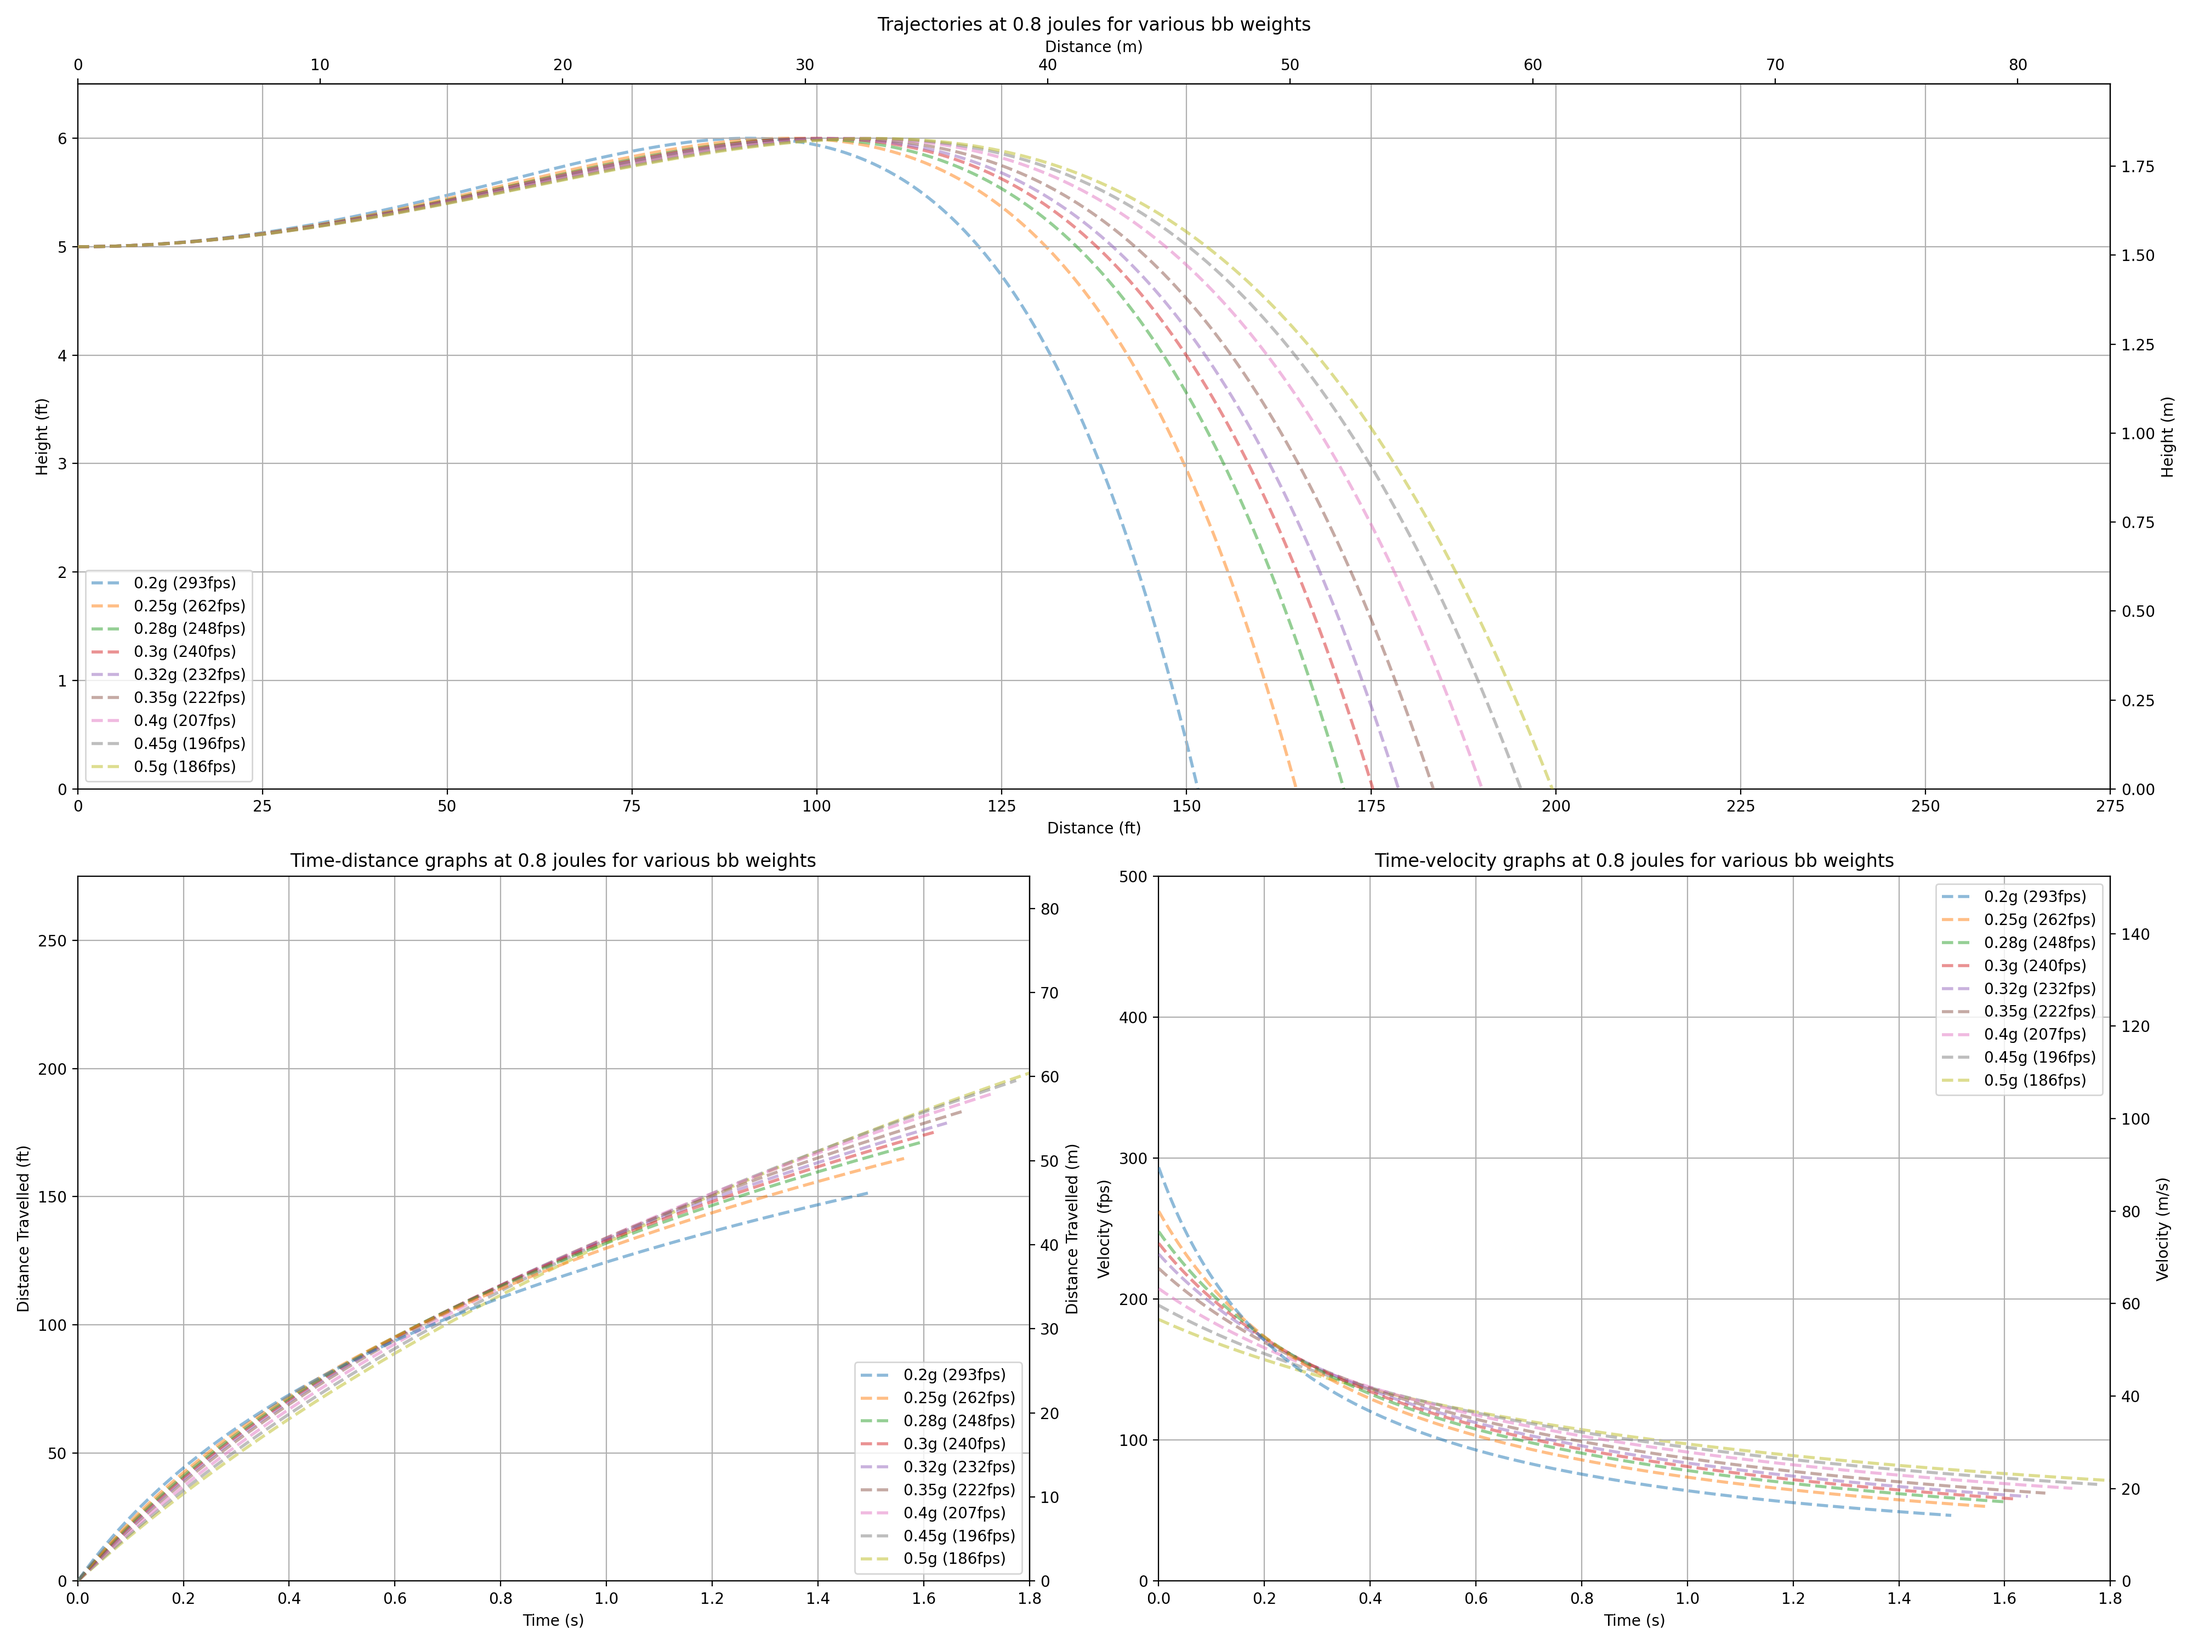
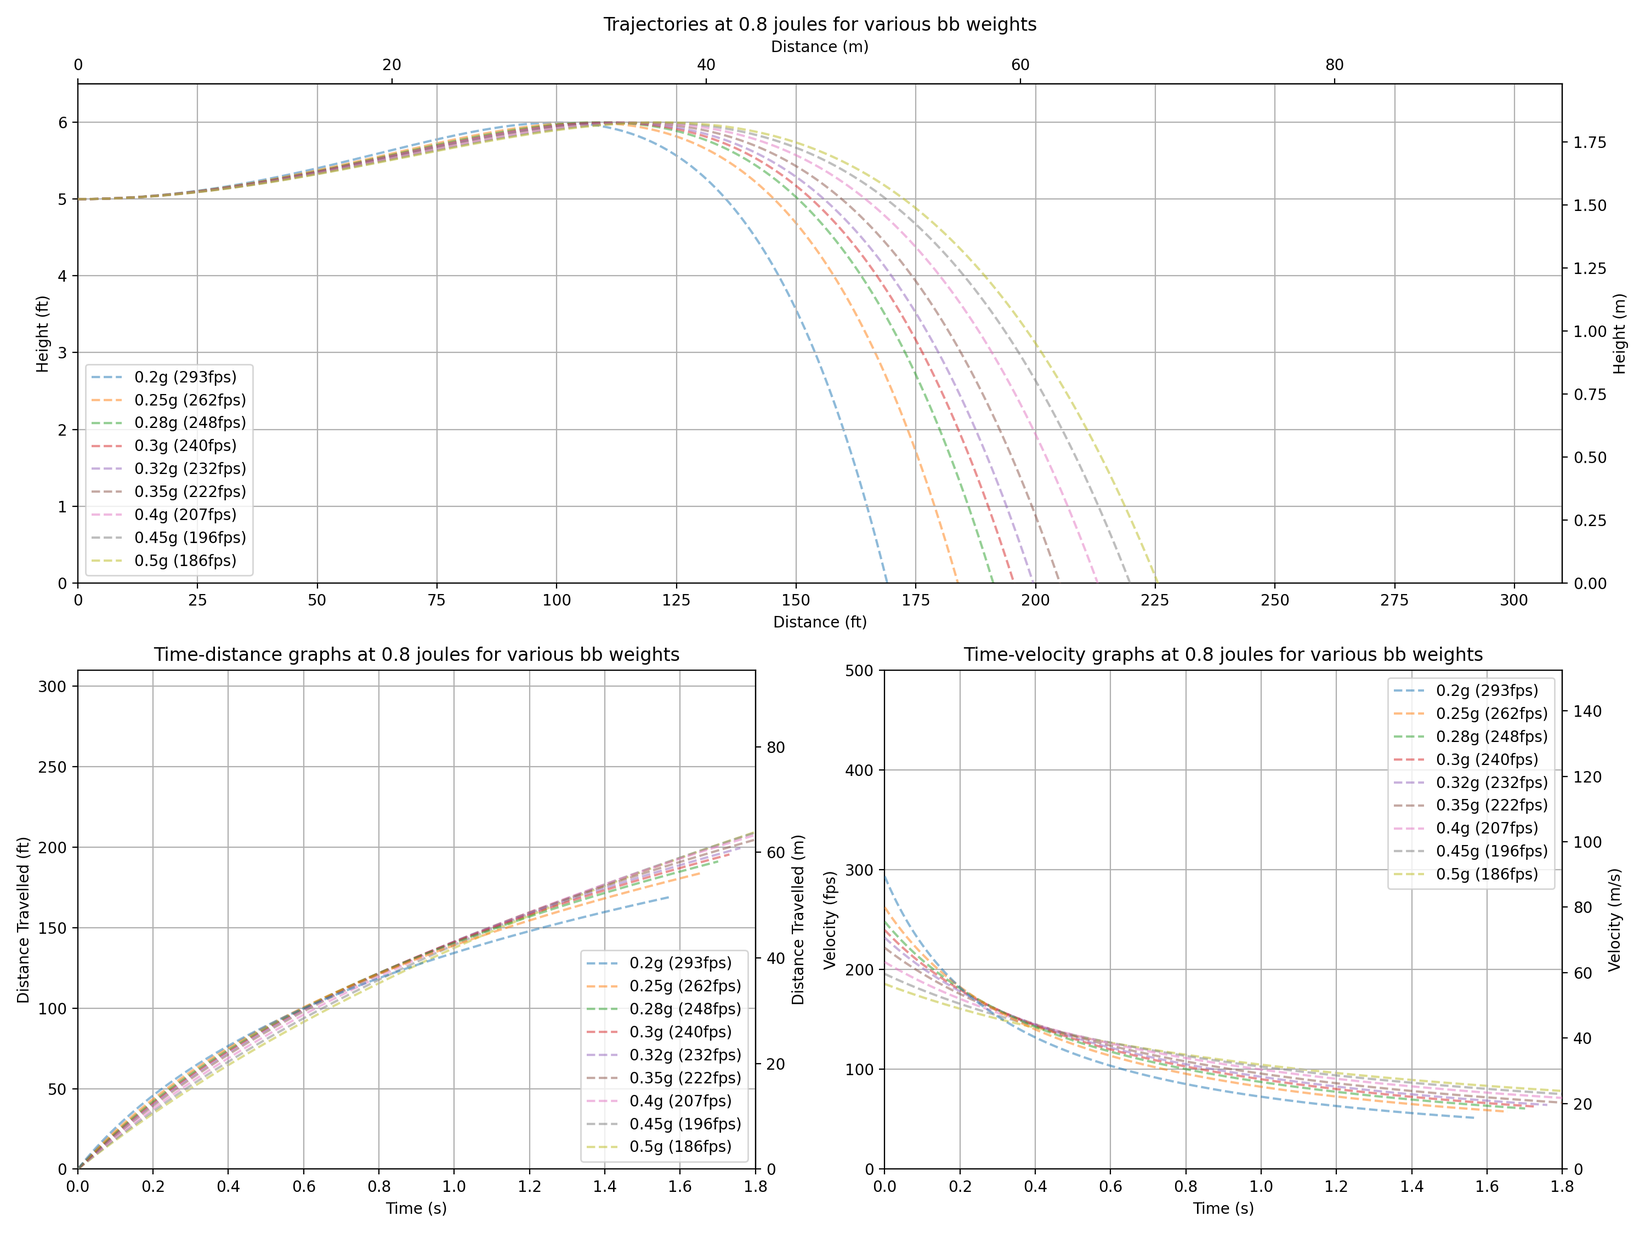
changes

diff --git a/main.py b/main.py
@@ -11,14 +11,16 @@ if os.name == 'nt': # Only if we are running on Windows
     from ctypes import windll
     k = windll.kernel32
     k.SetConsoleMode(k.GetStdHandle(-11), 7)
-sys.stdout.write(f"\x1b[8;{64};{100}t")
+sys.stdout.write(f"\x1b[8;{64};{100}t") # Set console size to 100x64
 
 RAD = 1.571
+## All at 15c
 AIR_DENSITY = 1.225
-AIR_DYNAMIC_VISCOSITY = 1.81e-5
+AIR_DYNAMIC_VISCOSITY = 1.802e-5
+AIR_KINEMATIC_VISCOSITY = AIR_DYNAMIC_VISCOSITY/AIR_DENSITY
 BB_DIAMETER = 5.95e-3
 BB_RADIUS = BB_DIAMETER/2
-SPHERE_DRAG_COEF = 0.47
+SPHERE_DRAG_COEF = 0.40
 SPHERE_FRONTAL_AREA = pi*BB_RADIUS**2
 TIMESTEP = 1/1000
 GRAVITY = 9.81
@@ -28,7 +30,11 @@ ENERGIES = (0.7, 0.8, 0.9, 1.0, 1.138, 1.486, 1.881, 2.322)
 MASSES =    (0.0002, 0.00025, 0.00028, 0.0003, 
             0.00032, 0.00035, 0.0004, 0.00045, 0.0005)
 CLAMP_AXES = True
-USE_CACHE = False
+USE_CACHE = True
+RPM_PER_RAD_PER_SEC = 9.5493
+
+GRAPH_DPI = 200
+FIG_SIZE_MOD = 0.75
 
 def remap(x, in_min, in_max, out_min, out_max):
     return (x - in_min) * (out_max - out_min) / (in_max - in_min) + out_min
@@ -53,11 +59,35 @@ class BB_Class:
         # self.ballistic_coefficient = mass/(SPHERE_DRAG_COEF + SPHERE_FRONTAL_AREA)
         self.flight_time = 0
 
-    # def reynolds_number(self):
-    #     return (p*w*b**2)/u
+    def reynolds_number(self):
+        # https://en.wikipedia.org/wiki/Reynolds_number
+        surface_speed = BB_RADIUS * self.angular_velocity
+        flow_speed = sqrt(self.velocity[0]**2 + self.velocity[1]**2) + surface_speed
+        return (AIR_DENSITY*flow_speed*BB_DIAMETER)/AIR_DYNAMIC_VISCOSITY
 
     def drag_coef(self):
-        return 24/self.reynolds_number()
+        # return 24/self.reynolds_number()#
+        #http://www.ecourses.ou.edu/cgi-bin/ebook.cgi?topic=fl&chap_sec=09.1&page=theory
+        sphere_drags = (
+            (0, 0.42),
+            (3e5, 0.39),
+            (3.5e5, 0.1),
+            (3.55e5, 0.09),
+            (3.6e5, 0.08),
+
+        )
+        reynolds_number = self.reynolds_number()
+        for i in range(len(sphere_drags)-1):
+            prev_reynolds = sphere_drags[i][0]
+            next_reynolds = sphere_drags[i+1][0]
+            if prev_reynolds <= reynolds_number <= next_reynolds:
+                prev_drag = sphere_drags[i][1]
+                next_drag = sphere_drags[i+1][1]
+                drag_coef = remap(reynolds_number, prev_reynolds, next_reynolds, prev_drag, next_drag)
+                return drag_coef
+        raise Exception(f"Reynolds number {reynolds_number} is out of range")
+        
+        
 
     def vortex_strength(self) -> float:
         return 2*pi*BB_RADIUS**2*self.angular_velocity
@@ -76,8 +106,13 @@ class BB_Class:
         # Gets initial hop spin for straight flight
         # Gets hop spin according to magnus effect https://www.fxsolver.com/browse/formulas/Magnus+effect
         F = mass * GRAVITY
-        G = F/(BB_DIAMETER * AIR_DENSITY * component_velocity)
-        angular_velocity = G/(2*pi*BB_RADIUS**2)
+        # G = F/(BB_DIAMETER * AIR_DENSITY * component_velocity)
+        # angular_velocity = G/(2*pi*BB_RADIUS**2)
+
+
+        # F = (4/3) * (4*(pi**2)*(BB_RADIUS**3)*angular_velocity*AIR_DENSITY*speed)
+        # solve for angular_velocity
+        angular_velocity = (F*3)/(16*(pi**2)*(BB_RADIUS**3)*AIR_DENSITY*component_velocity)
         return angular_velocity
 
     def update_angular_velocity(self):
@@ -85,19 +120,39 @@ class BB_Class:
         shear_force = 2*pi*AIR_DYNAMIC_VISCOSITY * \
             self.angular_velocity*BB_DIAMETER*BB_RADIUS
         shear_torque = BB_RADIUS * shear_force
-        shear_delta = (shear_torque / self.moment_of_inerta) * TIMESTEP
 
         friction_torque = pi*self.angular_velocity**2*BB_RADIUS**4 * \
             BB_DIAMETER*AIR_DENSITY*SPHERE_DRAG_COEF
-        friction_delta = (friction_torque / self.moment_of_inerta) * TIMESTEP
-        self.angular_velocity = self.angular_velocity - shear_delta - friction_delta
+
+
+        total_torque = shear_torque + friction_torque
+        total_acceleration = total_torque/self.moment_of_inerta
+        total_delta = total_acceleration * TIMESTEP
+
+        self.angular_velocity = self.angular_velocity - total_delta
+
+    def update_angular_velocity_viscous(self):
+        # https://hobbieroth.blogspot.com/2018/01/the-viscous-torque-on-rotating-sphere.html
+        angular_velocity = self.angular_velocity
+        torque = 8*pi*AIR_DYNAMIC_VISCOSITY*BB_RADIUS**3*angular_velocity
+        angular_acceleration = torque/self.moment_of_inerta
+        angular_delta = angular_acceleration * TIMESTEP
+
+        self.angular_velocity = angular_velocity - angular_delta
 
     def calc_magnus_effect(self):
-        G = self.vortex_strength()
         speed = sqrt(self.velocity[0]**2 + self.velocity[1]**2)
+        # G = self.vortex_strength()
         direction = atan2(self.velocity[0], self.velocity[1]) - RAD
-        F = AIR_DENSITY*speed*G*BB_DIAMETER
-        delta_speed = F/self.mass
+        # F_old = AIR_DENSITY*speed*G*BB_DIAMETER
+        angular_velocity = self.angular_velocity
+        # https://www1.grc.nasa.gov/beginners-guide-to-aeronautics/ideal-lift-of-a-spinning-ball/
+        F_ideal = (4/3) * (4*(pi**2)*(BB_RADIUS**3)*angular_velocity*AIR_DENSITY*speed)
+        # https://www.grc.nasa.gov/www/k-12/VirtualAero/BottleRocket/airplane/beach.html
+        # V_r = 2 * pi * BB_RADIUS * angular_velocity
+        # G_c = 2 * pi * BB_RADIUS * V_r
+        # F_corrected = (AIR_DENSITY * G_c * speed) * BB_DIAMETER * (pi/4)
+        delta_speed = F_ideal/self.mass
         delta_X = sin(direction) * delta_speed
         delta_Y = cos(direction) * delta_speed
         # print("Magnus delta ", delta_X, delta_Y, velocity)
@@ -106,10 +161,11 @@ class BB_Class:
     def calc_drag(self) -> list:
         speed = sqrt(self.velocity[0]**2 + self.velocity[1]**2)
         direction = atan2(self.velocity[0], self.velocity[1])
+        drag_coef = SPHERE_DRAG_COEF #self.drag_coef()
         # https://en.wikipedia.org/wiki/Drag_equation
-        F = SPHERE_DRAG_COEF*0.5*AIR_DENSITY*(speed**2)*SPHERE_FRONTAL_AREA
-        # F = 6*pi*BB_RADIUS*AIR_DYNAMIC_VISCOSITY*speed # https://en.wikipedia.org/wiki/Stokes%27_law
-        delta_speed = F/self.mass
+        force = drag_coef*0.5*AIR_DENSITY*(speed**2)*SPHERE_FRONTAL_AREA
+        # force = 6*pi*BB_RADIUS*AIR_DYNAMIC_VISCOSITY*speed # https://en.wikipedia.org/wiki/Stokes%27_law
+        delta_speed = force/self.mass
         delta_X = sin(direction) * delta_speed
         delta_Y = cos(direction) * delta_speed
         return [-delta_X, -delta_Y]
@@ -142,7 +198,7 @@ class BB_Class:
         max_x = 0
         max_y = 0
         while self.position[1] > 0:
-            self.update_angular_velocity()
+            self.update_angular_velocity_viscous()
             acceleration = self.update_velocity()
             self.update_position()
             max_x = max(max_x, self.position[0])
@@ -176,7 +232,7 @@ def get_plot_label(subject, result) -> str:
 
 
 def plot_graphs(series, datapoint, subject):
-    fig = plt.figure(dpi=200, figsize=(20, 15), tight_layout=True)
+    fig = plt.figure(dpi=GRAPH_DPI, figsize=(20 * FIG_SIZE_MOD, 15 * FIG_SIZE_MOD), tight_layout=True)
     if subject == "J":
         directory = f'graphs/energy/{datapoint}J.png'
         trajectory_title = f'Trajectories at {datapoint} joules for various bb weights'
@@ -197,7 +253,7 @@ def plot_graphs(series, datapoint, subject):
 
 
 def configure_line(z, line, subject, result):
-    line.set_lw(2)
+    line.set_lw(2*FIG_SIZE_MOD)
     line.set_alpha(0.5)
     line.set_ls('--')
     line.set_label(get_plot_label(subject, result))
@@ -218,13 +274,13 @@ def plot_trajectory(fig, series, title, subject):
         trajectory = ax.plot(positions_x, positions_y)[0]
         configure_line(i, trajectory, subject, result)
     if CLAMP_AXES:
-        ax.set_xlim(xmin=0, xmax=275)
+        ax.set_xlim(xmin=0, xmax=310)
         ax.set_ylim(ymin=0, ymax=6.5)
     secxax = ax.secondary_xaxis('top', functions=(ft2m, m2ft))
     secyax = ax.secondary_yaxis('right', functions=(ft2m, m2ft))
     secxax.set_xlabel("Distance (m)")
     secyax.set_ylabel("Height (m)")
-    ax.legend(loc='lower left' if CLAMP_AXES else 'upper left')
+    ax.legend(loc='lower left')
 
 
 def plot_time_distance(fig, series, title, subject):
@@ -241,7 +297,7 @@ def plot_time_distance(fig, series, title, subject):
         configure_line(len(series)-i, trajectory, subject, result)
     if CLAMP_AXES:
         ax.set_xlim(xmin=0, xmax=1.8)
-        ax.set_ylim(ymin=0, ymax=275)
+        ax.set_ylim(ymin=0, ymax=310)
     secyax = ax.secondary_yaxis('right', functions=(ft2m, m2ft))
     secyax.set_ylabel("Distance Travelled (m)")
     ax.legend(loc='lower right')
@@ -267,9 +323,9 @@ def plot_time_velocity(fig, series, title, subject):
     ax.legend(loc='upper right')
 
 def plot_spin_mods(results):
-    fig, ax = plt.subplots(subplot_kw={"projection": "3d"}, figsize=(15,10))
+    fig, ax = plt.subplots(subplot_kw={"projection": "3d"}, figsize=(15*FIG_SIZE_MOD,10*FIG_SIZE_MOD))
     fig.tight_layout()
-    fig.set_dpi(200)
+    fig.set_dpi(GRAPH_DPI)
     ax.view_init(30, -30)
 
     masses = np.asarray([result["mass"]*1000 for result in results])
@@ -292,20 +348,20 @@ def plot_spin_mods(results):
 
 
 # finds correct hop for max of 6ft rise
-def run_bb_1ft_hop(pair, row):
+def run_bb_custom_hop(pair, row, max_ft = 6):
     mass, energy = pair
-    bb = BB_Class(mass, energy)
+    angle = 0
+    bb = BB_Class(mass, energy, angle)
     best_result = bb.run_sim()
     best_x = best_result["max_x"]
     hop_step = 0.001
-    angle = 0
     hop_multiplier = 1
     while True:
         Progress_Bar.print(f'{round(mass*1000, 2)}g, {energy}J, {angle}deg, {round(hop_multiplier, 2)}x {round(best_result["max_x"], 3)}m', row)
         result = BB_Class(mass, energy, angle, hop_multiplier).run_sim()
         max_x = result["max_x"]
         max_y = result["max_y"]
-        if max_y > ft2m(6):
+        if max_y > ft2m(max_ft):
             break
         if max_x > best_x:
             best_x = max_x
@@ -321,7 +377,6 @@ def run_bb_1ft_hop_new(pair, row):
     best_x = 0
     hop_step = 0.01
     hop_multiplier = 1
-
     maximum_height = ft2m(6)
     minimum_height = ft2m(4.5)
     angle = 0
@@ -339,7 +394,7 @@ def run_bb_1ft_hop_new(pair, row):
             points = result["points"]
             with_upwards_velocity = [x for x in points if x[3][1] >= 0]
             # If there are no points with upwards velocity, bb always fell so ignore this.
-            # This causes a big of 1x hop mod never being used, but this will never be the best hop mod anyway
+            # This causes a bug of 1x hop mod never being used, but this will never be the best hop mod anyway
             min_y = min(x[1][1] for x in with_upwards_velocity)
             # If it is dipping below minimum then further reducing the angle is useless
             if min_y < minimum_height:
@@ -352,42 +407,6 @@ def run_bb_1ft_hop_new(pair, row):
             
         angle = round(angle + angle_step, 1)
     Progress_Bar.print(f'Done {mass*1000}g, {energy}j with {best_result["angle"]}deg and {best_result["hop_mod"]}x hop mod', row)
-    return best_result
-
-# finds correct hop and shooting angle for maximum distance. Currently non functional
-def run_bb_max_dist(pair, row):
-    mass, energy = pair
-    bb = BB_Class(mass, energy)
-    best_result = bb.run_sim()
-    best_x = 0
-    angle_step = 0.001
-    hop_step = 0.001
-    angle = 0
-    hop_multiplier = 1
-    useless_angle_steps = 0
-    while True:
-        hop_multiplier = 1
-        useless_hop_steps = 0
-        best_x = 0
-        while True:
-            Progress_Bar.print(f'{round(mass*1000, 2)}g, {energy}J, {angle}deg, {round(hop_multiplier, 2)}x {round(best_result["max_x"], 3)}m', row)
-            result = BB_Class(mass, energy, angle, hop_multiplier).run_sim()
-            max_x = result["max_x"]
-            if max_x > best_x:
-                best_x = max_x
-                best_result = result
-                useless_angle_steps = -1
-                useless_hop_steps = 0
-            else:
-                useless_hop_steps += 1
-            if useless_hop_steps > 10:
-                break
-            hop_multiplier = round(hop_multiplier + hop_step, 3)
-        useless_angle_steps += 1
-        angle = round(angle + angle_step, 3)
-        if useless_angle_steps > 10:
-            break
-    Progress_Bar.print(f'Done {mass*1000}g, {energy}j with {best_result["angle"]}deg and {best_result["hop_mod"]}x', row)
     return best_result
 
 def main():
@@ -413,7 +432,7 @@ def main():
             progress_bar = Progress_Bar("Running sims", len(pairs))
             for i, pair in enumerate(pairs):
                 Progress_Bar.print(f'{pair} not started', i)
-                futures.append(pe.submit(run_bb_1ft_hop, pair, i))
+                futures.append(pe.submit(run_bb_custom_hop, pair, i))
             for future in concurrent.futures.as_completed(futures):
                 results.append(future.result())
                 progress_bar.update_progress()
@@ -481,6 +500,7 @@ class Progress_Bar():
     def __del__(self):
         print("")
         print(f"Done in {int(time.time()-self.start_time)}s")
+
 
 
 if __name__ == "__main__":
